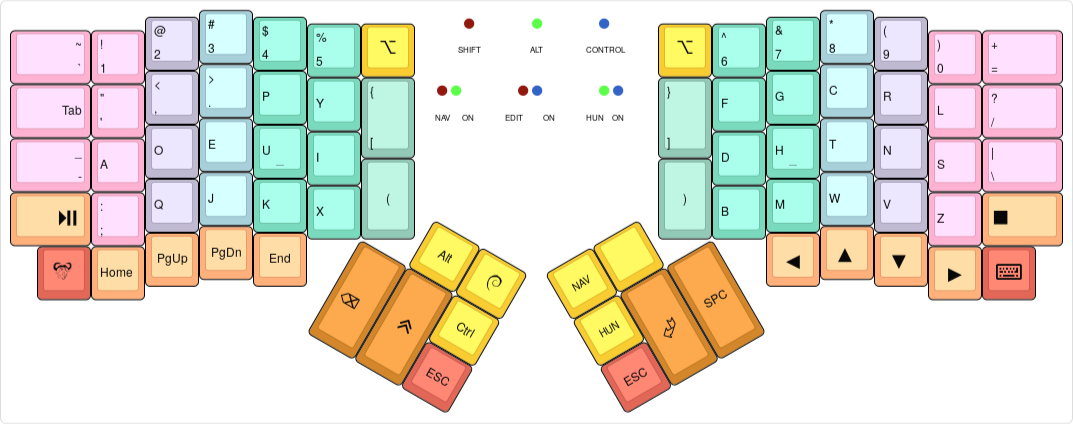
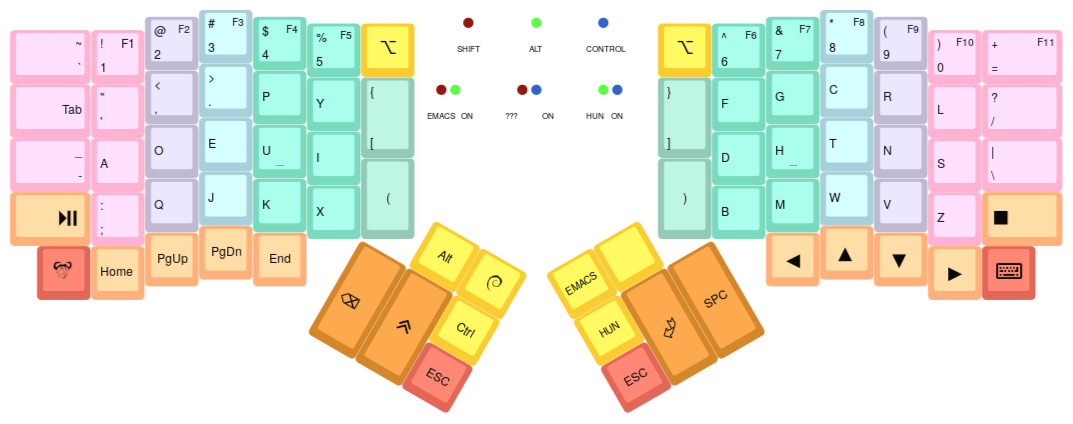
Merge NAV & EDIT into EMACS
The difference between the two was negligible, ond they fit nicely into
one layer anyway. This fixes #10.

While there, also merged the function keys onto the top row, as
long-press options. This fixes #11.

diff --git a/keymap.c b/keymap.c
@@ -15,8 +15,7 @@
 #define BASE    0 // default layer
 #define APPSEL  1 // application select layer
 #define HUN     2 // Hungarian layer
-#define NAV     3 // navigation layer
-#define EDIT    4 // Edit overlay for the NAV layer
+#define EMACS   3 // (Spac)Emacs layer
 
 /* Macros */
 
@@ -62,6 +61,18 @@
 #define APP_CHRM  30 // Chrome
 #define APP_MSIC  31 // Music
 
+#define KF_1      35 // 1, F1
+#define KF_2      36 // 2, F2
+#define KF_3      37 // ...
+#define KF_4      38
+#define KF_5      39
+#define KF_6      40
+#define KF_7      41
+#define KF_8      42
+#define KF_9      43
+#define KF_10     44
+#define KF_11     45 // =, F11
+
 /* States & timers */
 
 uint8_t shift_state = 0;
@@ -73,6 +84,8 @@ static uint16_t m_cutdel_timer;
 static uint16_t m_copypaste_timer;
 
 uint16_t gui_timer = 0;
+
+uint16_t kf_timers[12];
 
 enum {
   CP_EMACS = 0,
@@ -89,7 +102,7 @@ const uint16_t PROGMEM keymaps[][MATRIX_ROWS][MATRIX_COLS] = {
 /* Keymap 0: Base Layer
  *
  * ,-----------------------------------------------------.           ,-----------------------------------------------------.
- * |        `~ |   1  |   2  |   3  |   4  |   5  | Apps |           | Apps |   6  |   7  |   8  |   9  |   0  | =         |
+ * |        `~ | 1 F1 | 2 F2 | 3 F3 | 4 F4 | 5 F5 | Apps |           | Apps | 6 F6 | 7 F7 | 8 F8 | 9 F9 | 0 F10| =     F11 |
  * |-----------+------+------+------+------+-------------|           |------+------+------+------+------+------+-----------|
  * |       Tab |   '  |   ,  |   .  |   P  |   Y  |   [  |           |  ]   |   F  |   G  |   C  |   R  |  L   | /         |
  * |-----------+------+------+------+------+------|      |           |      |------+------+------+------+------+-----------|
@@ -109,10 +122,10 @@ const uint16_t PROGMEM keymaps[][MATRIX_ROWS][MATRIX_COLS] = {
  */
 [BASE] = KEYMAP(
 // left hand
- KC_GRV             ,KC_1        ,KC_2        ,KC_3   ,KC_4  ,KC_5  ,KC_APP
-,KC_TAB             ,KC_QUOT     ,KC_COMM     ,KC_DOT ,KC_P  ,KC_Y  ,KC_LBRC
-,KC_MINS            ,KC_A        ,KC_O        ,KC_E   ,KC_U  ,KC_I
-,KC_MPLY            ,KC_SCLN     ,KC_Q        ,KC_J   ,KC_K  ,KC_X  ,KC_LPRN
+ KC_GRV             ,M(KF_1)     ,M(KF_2)     ,M(KF_3),M(KF_4),M(KF_5),KC_APP
+,KC_TAB             ,KC_QUOT     ,KC_COMM     ,KC_DOT ,KC_P   ,KC_Y   ,KC_LBRC
+,KC_MINS            ,KC_A        ,KC_O        ,KC_E   ,KC_U   ,KC_I
+,KC_MPLY            ,KC_SCLN     ,KC_Q        ,KC_J   ,KC_K   ,KC_X   ,KC_LPRN
 ,M(ASE_META)        ,KC_HOME     ,KC_PGUP     ,KC_PGDN,KC_END
 
                                                             ,M(A_ALT),M(A_GUI)
@@ -120,7 +133,7 @@ const uint16_t PROGMEM keymaps[][MATRIX_ROWS][MATRIX_COLS] = {
                                                     ,KC_BSPC,M(A_SFT),KC_ESC
 
                                                                 // right hand
-                                                               ,KC_APP  ,KC_6   ,KC_7   ,KC_8   ,KC_9        ,KC_0        ,KC_EQL
+                                                               ,KC_APP  ,M(KF_6),M(KF_7),M(KF_8),M(KF_9)     ,M(KF_10)    ,M(KF_11)
                                                                ,KC_RBRC ,KC_F   ,KC_G   ,KC_C   ,KC_R        ,KC_L        ,KC_SLSH
                                                                         ,KC_D   ,KC_H   ,KC_T   ,KC_N        ,KC_S        ,KC_BSLS
                                                                ,KC_RPRN ,KC_B   ,KC_M   ,KC_W   ,KC_V        ,KC_Z        ,KC_MSTP
@@ -224,102 +237,79 @@ const uint16_t PROGMEM keymaps[][MATRIX_ROWS][MATRIX_COLS] = {
                                                                ,KC_TRNS ,KC_TRNS  ,KC_TRNS
     ),
 
-/* Keymap 3: Navigation layer
+/* Keymap 3: Spacemacs layer
  *
  * ,-----------------------------------------------------.           ,-----------------------------------------------------.
- * | MS Slow   |  F1  |  F2  |  F3  |  F4  |  F5  |ScrLCK|           |ScrLCK|  F6  |  F7  |  F8  |  F9  | F10  |    F11    |
+ * | MS Slow   | 1 F1 | 2 F2 | 3 F3 | 4 F4 | 5 F5 |ScrLCK|           |ScrLCK| 6 F6 | 7 F7 | 8 F8 | 9 F9 | 0 F10|    F11    |
  * |-----------+------+------+------+------+-------------|           |------+------+------+------+------+------+-----------|
- * | MS Normal |      | Home |  Up  | End  |      |Visual|           |Scroll|Vol Up|MsUpL | MsUp |MsUpR |      |PrintScreen|
+ * | MS Normal |      | Home |  Up  | End  |      |Visual|           |Scroll|  $   |MsUpL | MsUp |MsUpR |Vol Up|PrintScreen|
  * |-----------+------+------+------+------+------| Mode |           |  Up  |------+------+------+------+------+-----------|
- * | MS Fast   |      | Left | Down | Right|      |------|           |------|Vol Dn|MsLeft| MsDn |MsRght|      |           |
+ * | MS Fast   |APPEND| Left | Down | Right| INS  |------|           |------|  D   |MsLeft| MsDn |MsRght|Vol Dn|           |
  * |-----------+------+------+------+------+------| Cut  |           |Scroll|------+------+------+------+------+-----------|
- * | Play/Pause|      | PgUp | Down | PgDn |      | Copy |           | Down | Mute |MsDnL | MsDn |MsDnR |      |      Stop |
+ * | Play/Pause|      | PgUp | Down | PgDn |  X   | Copy |           | Down |      |MsDnL |  W   |MsDnR | Mute |      Stop |
  * `-----------+------+------+------+------+-------------'           `-------------+------+------+------+------+-----------'
  *      |EmacsM|TermM |OtherM|      |      |                                       |      |      |      |      |      |
  *      `----------------------------------'                                       `----------------------------------'
  *                                         ,-------------.           ,-------------.
- *                                         |  Alt | GUI  |           |Edit L| MClk |
+ *                                         |  Alt | GUI  |           | BASE | MClk |
  *                                  ,------|------|------|           |------+------+------.
  *                                  |Delete|      | Ctrl |           | Prev |Left  |Right |
  *                                  |      |LShift|------|           |------| Click| Click|
  *                                  |Paste |      | ESC  |           | Next |      |      |
  *                                  `--------------------'           `--------------------'
  */
-[NAV] = KEYMAP(
+[EMACS] = KEYMAP(
 // left hand
- KC_ACL0    ,KC_F1       ,KC_F2      ,KC_F3   ,KC_F4   ,KC_F5   ,LGUI(KC_L)
+ KC_ACL0    ,M(KF_1)     ,M(KF_2)    ,M(KF_3) ,M(KF_4) ,M(KF_5) ,LGUI(KC_L)
 ,KC_ACL1    ,KC_NO       ,KC_HOME    ,KC_UP   ,KC_END  ,KC_NO   ,M(AE_VIS)
-,KC_ACL2    ,KC_NO       ,KC_LEFT    ,KC_DOWN ,KC_RIGHT,KC_NO
-,KC_MPLY    ,KC_NO       ,KC_PGUP    ,KC_DOWN ,KC_PGDN ,KC_NO   ,M(AE_CPYC)
+,KC_ACL2    ,M(AE_APPND) ,KC_LEFT    ,KC_DOWN ,KC_RIGHT,M(AE_INS)
+,KC_MPLY    ,KC_NO       ,KC_PGUP    ,KC_DOWN ,KC_PGDN ,KC_X    ,M(AE_CPYC)
 ,M(AE_EMACS),M(AE_TERM)  ,M(AE_OTHER),KC_NO   ,KC_NO
                                                         ,KC_TRNS ,KC_TRNS
                                                                  ,KC_TRNS
                                            ,M(AE_PSTDEL),KC_TRNS ,KC_TRNS
+
                                                                      // right hand
-                                                                     ,LGUI(KC_L),KC_F6   ,KC_F7   ,KC_F8   ,KC_F9   ,KC_F10  ,KC_F11
-                                                                     ,KC_WH_U   ,KC_VOLU ,M(A_MUL),KC_MS_U ,M(A_MUR),KC_NO   ,KC_PSCR
-                                                                                ,KC_VOLD ,KC_MS_L ,KC_MS_D ,KC_MS_R ,KC_NO   ,KC_NO
-                                                                     ,KC_WH_D   ,KC_MUTE ,M(A_MDL),KC_MS_D ,M(A_MDR),KC_NO   ,KC_MSTP
+                                                                     ,LGUI(KC_L),M(KF_6) ,M(KF_7) ,M(KF_8) ,M(KF_9) ,M(KF_10),M(KF_11)
+                                                                     ,KC_WH_U   ,KC_DLR  ,M(A_MUL),KC_MS_U ,M(A_MUR),KC_VOLU ,KC_PSCR
+                                                                                ,KC_D    ,KC_MS_L ,KC_MS_D ,KC_MS_R ,KC_VOLD ,KC_NO
+                                                                     ,KC_WH_D   ,KC_NO   ,M(A_MDL),KC_MS_D ,M(A_MDR),KC_MUTE ,KC_MSTP
                                                                                          ,KC_NO   ,KC_NO   ,KC_NO   ,KC_NO   ,KC_NO
-                                                                     ,KC_FN5    ,KC_MS_BTN3
+                                                                     ,KC_FN1    ,KC_MS_BTN3
                                                                      ,KC_MPRV
                                                                      ,KC_MNXT   ,KC_BTN1 ,KC_BTN2
     ),
-
-/* Keymap 4: Edit overlay for NAV
- *
- * ,-----------------------------------------------------.           ,-----------------------------------------------------.
- * |           |      |      |      |      |      |      |           |      |   1  |   2  |   3  |   4  |   5  |           |
- * |-----------+------+------+------+------+-------------|           |------+------+------+------+------+------+-----------|
- * |           |      |      |      |      |      |      |           |      |   $  |      |      | OVR  |      |           |
- * |-----------+------+------+------+------+------|      |           |      |------+------+------+------+------+-----------|
- * |           |APPEND|      |      |      | INS  |------|           |------|   D  |      |      |      |      |           |
- * |-----------+------+------+------+------+------|      |           |      |------+------+------+------+------+-----------|
- * |           |      |      |      |      |  X   |      |           |      |      |      |   W  |      |      |           |
- * `-----------+------+------+------+------+-------------'           `-------------+------+------+------+------+-----------'
- *      |      |      |      |      |      |                                       |      |      |      |      |      |
- *      `----------------------------------'                                       `----------------------------------'
- *                                         ,-------------.           ,-------------.
- *                                         |      |      |           |      |      |
- *                                  ,------|------|------|           |------+------+------.
- *                                  |      |      |      |           |      |      |      |
- *                                  |      |      |------|           |------|      |      |
- *                                  |      |      |      |           |      |      |      |
- *                                  `--------------------'           `--------------------'
- */
-[EDIT] = KEYMAP(
-// left hand
- KC_TRNS ,KC_TRNS    ,KC_TRNS   ,KC_TRNS    ,KC_TRNS    ,KC_TRNS    ,KC_TRNS
-,KC_TRNS ,KC_TRNS    ,KC_TRNS   ,KC_TRNS    ,KC_TRNS    ,KC_TRNS    ,KC_TRNS
-,KC_TRNS ,M(AE_APPND),KC_TRNS   ,KC_TRNS    ,KC_TRNS    ,M(AE_INS)
-,KC_TRNS ,KC_TRNS    ,KC_TRNS   ,KC_TRNS    ,KC_TRNS    ,KC_X       ,KC_TRNS
-,KC_TRNS ,KC_TRNS    ,KC_TRNS   ,KC_TRNS    ,KC_TRNS
-
-                                             ,KC_TRNS ,KC_TRNS
-                                                      ,KC_TRNS
-                                    ,KC_TRNS ,KC_TRNS ,KC_TRNS
-
-                                                                // right hand
-                                                               ,KC_TRNS ,KC_1    ,KC_2    ,KC_3    ,KC_4     ,KC_5    ,KC_TRNS
-                                                               ,KC_TRNS ,KC_DLR  ,KC_TRNS ,KC_TRNS ,M(AE_OVR),KC_TRNS ,KC_TRNS
-                                                                        ,KC_D    ,KC_TRNS ,KC_TRNS ,KC_TRNS  ,KC_TRNS ,KC_TRNS
-                                                               ,KC_TRNS ,KC_TRNS ,KC_TRNS ,KC_TRNS ,KC_TRNS  ,KC_TRNS ,KC_TRNS
-                                                                                 ,KC_TRNS ,KC_W    ,KC_TRNS  ,KC_TRNS ,KC_TRNS
-
-                                                               ,KC_FN1  ,KC_TRNS
-                                                               ,KC_TRNS
-                                                               ,KC_TRNS ,KC_TRNS  ,KC_TRNS
-    ),
-
-
 };
 
 const uint16_t PROGMEM fn_actions[] = {
    [1] = ACTION_LAYER_CLEAR(ON_PRESS)           // FN1 - clear to base layer
-  ,[3] = ACTION_LAYER_INVERT(NAV, ON_PRESS)     // FN3 - toggle to Media on press
+  ,[3] = ACTION_LAYER_INVERT(EMACS, ON_PRESS)     // FN3 - toggle to EMACS on press
   ,[4] = ACTION_LAYER_INVERT(HUN, ON_PRESS)     // FN4 - toggle to Hungarian on press
-  ,[5] = ACTION_LAYER_INVERT(EDIT, ON_PRESS)    // FN5 - Edit overlay
 };
+
+void ang_handle_kf (keyrecord_t *record, uint8_t id)
+{
+  uint8_t code = id - KF_1;
+
+  if (record->event.pressed) {
+    kf_timers[code] = timer_read ();
+  } else {
+    uint8_t kc;
+
+    if (timer_elapsed (kf_timers[code]) > TAPPING_TERM) {
+      // Long press
+      kc = KC_F1 + code;
+    } else {
+      if (id == KF_11)
+        kc = KC_EQL;
+      else
+        kc = KC_1 + code;
+    }
+
+    register_code (kc);
+    unregister_code (kc);
+  }
+}
 
 const macro_t *action_get_macro(keyrecord_t *record, uint8_t id, uint8_t opt)
 {
@@ -745,6 +735,10 @@ const macro_t *action_get_macro(keyrecord_t *record, uint8_t id, uint8_t opt)
         if (record->event.pressed)
           return MACRO(T(M), T(U), T(S), T(I), T(C), T(ENT), END);
         break;
+
+      case KF_1 ... KF_11:
+        ang_handle_kf (record, id);
+        break;
       }
       return MACRO_NONE;
 };
@@ -767,10 +761,10 @@ void matrix_scan_user(void) {
     if (layer == HUN) {
       ergodox_right_led_2_on();
       ergodox_right_led_3_on();
-    } else if (layer == EDIT) {
+    } else if (layer == APPSEL) {
       ergodox_right_led_1_on();
       ergodox_right_led_3_on();
-    } else if (layer == NAV) {
+    } else if (layer == EMACS) {
       ergodox_right_led_1_on();
       ergodox_right_led_2_on();
     } else {

diff --git a/README.md b/README.md
@@ -19,13 +19,9 @@ So, the layers!
 [![Base layer](images/base-layer.png)](http://www.keyboard-layout-editor.com/#/gists/28f7eb305fdbff943613e1dc7aa9e82b)
 
 
-## Navigation layer
+## Emacs layer
 
-[![Navigation layer](images/nav-layer.png)](http://www.keyboard-layout-editor.com/#/gists/e4556d8dc59736c26d51a58cb4c4d2f0)
-
-## Edit Layer
-
-[![Edit layer](images/nav-edit-layer.png)](http://www.keyboard-layout-editor.com/#/gists/c59c453f9fe1a3238ba1494e7e5c6892)
+[![Emacs layer](images/emacs-layer.png)](http://www.keyboard-layout-editor.com/#/gists/e4556d8dc59736c26d51a58cb4c4d2f0)
 
 ## Hungarian layer
 
